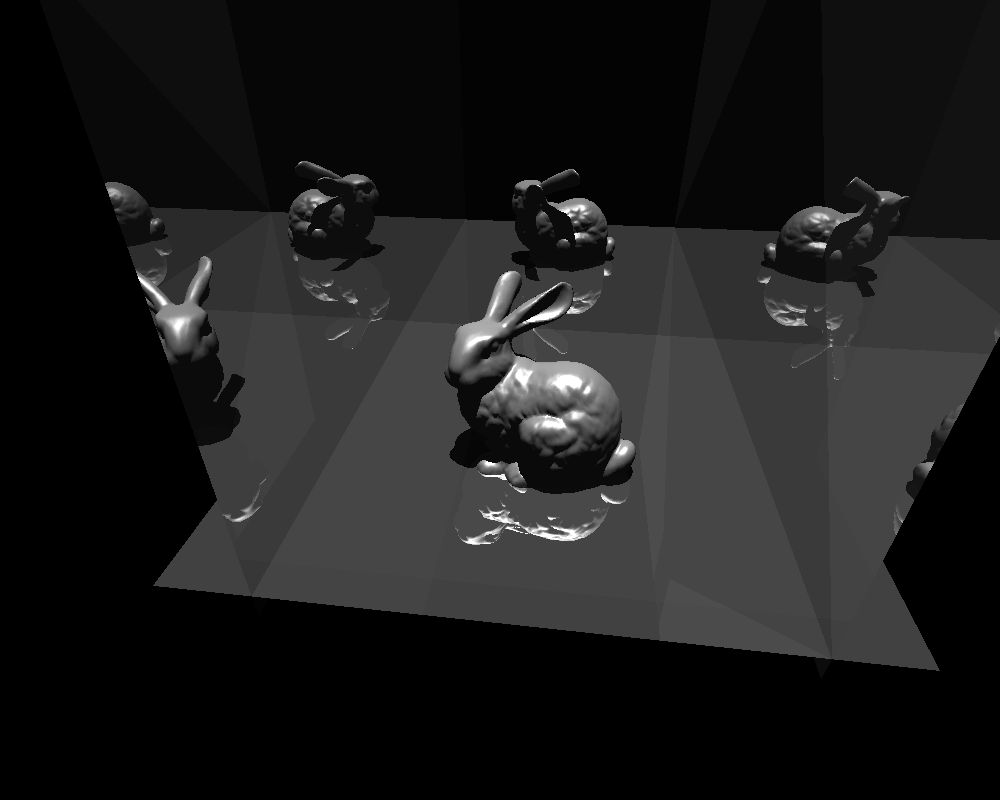
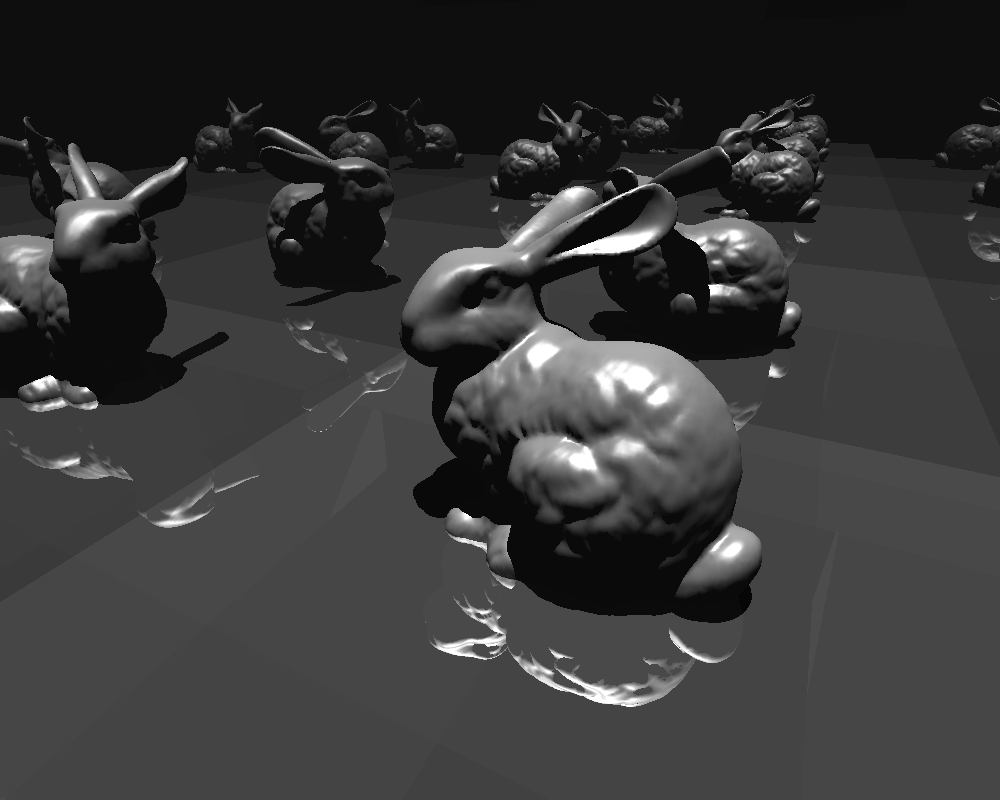
more rabbits

diff --git a/main.cpp b/main.cpp
@@ -51,7 +51,7 @@ int main()
 
 
     Camera cam;
-    cam.setPosition(Eigen::Vector3f(0.0,-0.4,0.3));
+    cam.setPosition(Eigen::Vector3f(0.05,-0.2,0.15));
     cam.lookAt(Eigen::Vector3f(-0.05,0.0,0.03));
     cam.height=800; cam.width=1000;
     cam.focal=600;
